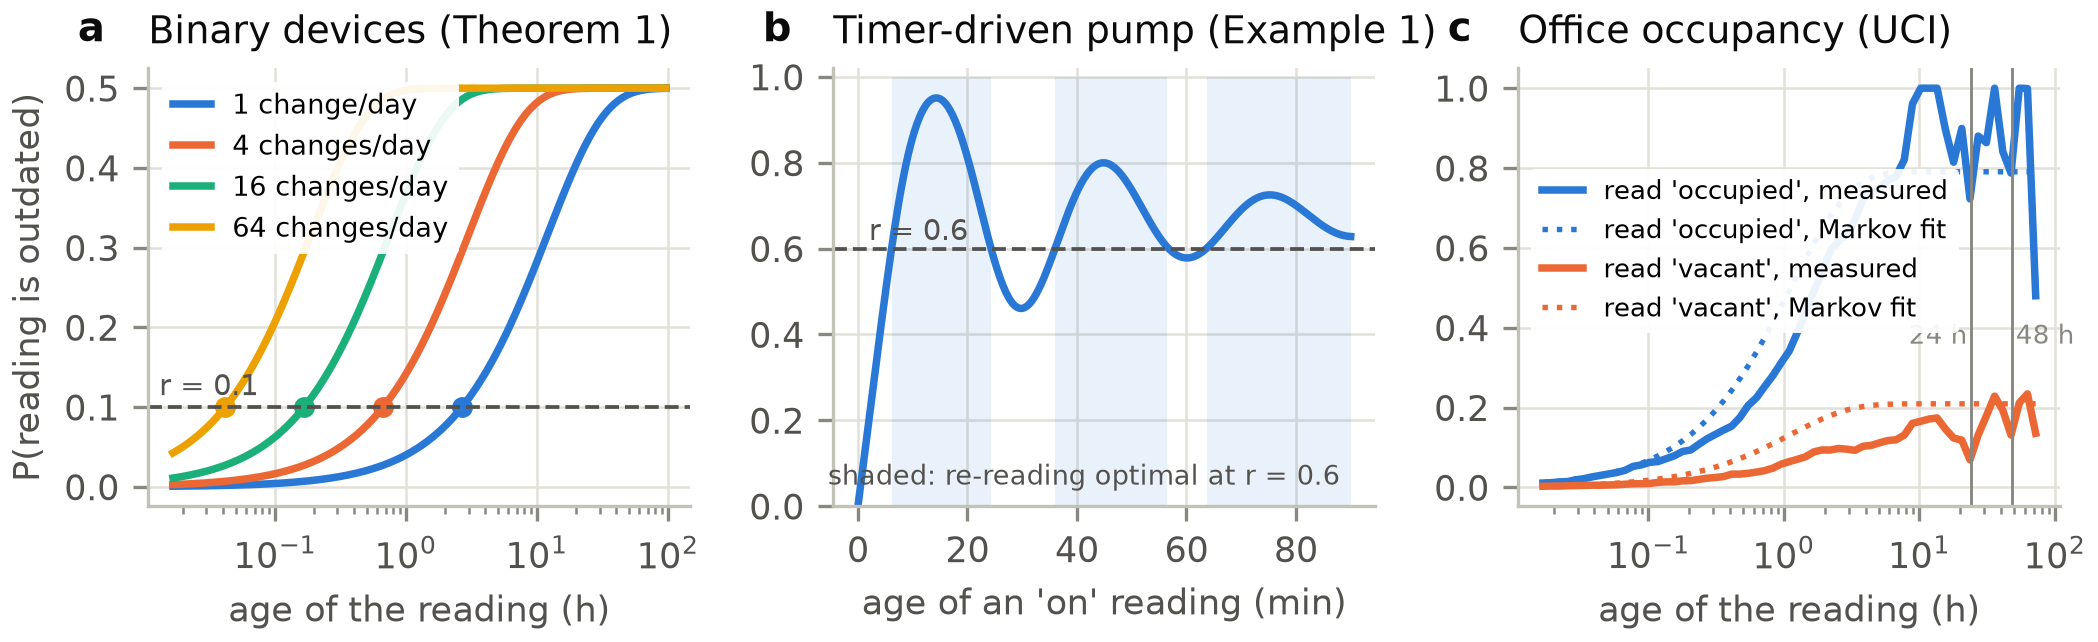
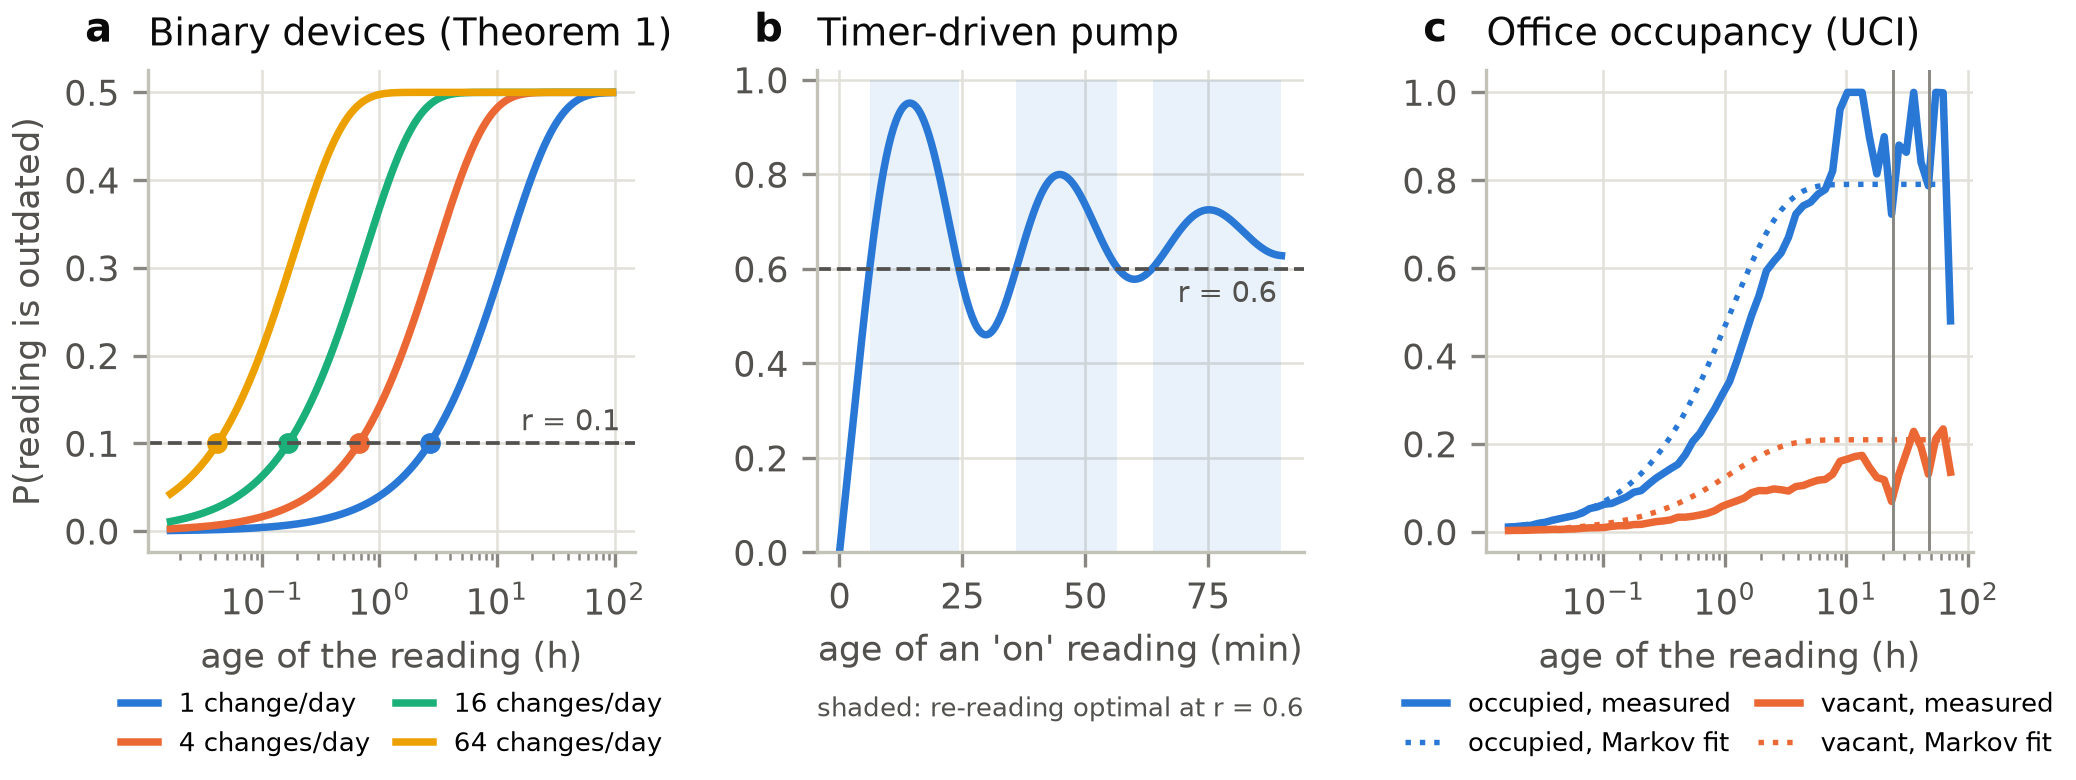
Figures: boxes sized to their text, legends moved off the data, distinct line styles

Changed region(s): [[0.0, 0.0, 1.0, 0.9969], [0.4624, 0.5607, 0.5241, 0.5919], [0.5549, 0.5607, 0.5857, 0.5919]]

diff --git a/shared/schematics.py b/shared/schematics.py
@@ -1,5 +1,9 @@
 # -*- coding: utf-8 -*-
 """Architecture schematics for both papers (matplotlib, 300 dpi).
+
+Boxes are sized from their text: each box is drawn after its title and lines have been measured, so no text can
+leave its box. A final check verifies that every text lies inside its box, that no two boxes overlap and that no
+arrow label overlaps a box; the script stops with an error otherwise.
 python schematics.py <age_figures_dir> <order_figures_dir>
 """
 import os
@@ -14,71 +18,153 @@ setup()
 plt.rcParams["axes.grid"] = False
 LIGHT = {"blue": "#e8f1fc", "orange": "#fdeee6", "aqua": "#e3f6ef", "gray": "#f3f2ee"}
 EDGE_GRAY = "#c3c2b7"
+PAD = 0.018          # inner padding, in axes units
+TITLE_FS, BODY_FS, LABEL_FS = 7.4, 6.5, 6.2
 
 
-def box(ax, x, y, w, h, title, lines, fill, edge, fs=6.6):
-    ax.add_patch(FancyBboxPatch((x, y), w, h, boxstyle="round,pad=0.008,rounding_size=0.015", fc=fill, ec=edge, lw=1.1))
-    ax.text(x + 0.014, y + h - 0.03, title, fontsize=7.6, fontweight="bold", color=INK, va="top")
-    ax.text(x + 0.014, y + h - 0.10, "\n".join(lines), fontsize=fs, color=INK2, va="top", linespacing=1.45)
+class Board:
+    def __init__(self, w_in, h_in):
+        self.fig, self.ax = plt.subplots(figsize=(w_in, h_in))
+        self.fig.subplots_adjust(0, 0, 1, 1)
+        self.ax.set_xlim(0, 1)
+        self.ax.set_ylim(0, 1)
+        self.ax.axis("off")
+        self.boxes, self.labels = [], []
+        self.r = self.fig.canvas.get_renderer()
 
+    def _size(self, t):
+        bb = t.get_window_extent(self.r).transformed(self.ax.transAxes.inverted())
+        return bb.width, bb.height
 
-def arrow(ax, p, q, label=None, off=(0, 0.02), ha="center"):
-    ax.add_patch(FancyArrowPatch(p, q, arrowstyle="-|>", mutation_scale=9, lw=1.0, color=INK2, shrinkA=1, shrinkB=1))
-    if label:
-        ax.text((p[0] + q[0]) / 2 + off[0], (p[1] + q[1]) / 2 + off[1], label, fontsize=6.3, color=INK2, ha=ha)
+    def measure(self, title, lines):
+        """natural (w, h) of a box with this content, in axes units."""
+        tt = self.ax.text(0, 1, title, fontsize=TITLE_FS, fontweight="bold", va="top")
+        bt = self.ax.text(0, 1, chr(10).join(lines), fontsize=BODY_FS, va="top", linespacing=1.4)
+        (tw, th), (bw, bh) = self._size(tt), self._size(bt)
+        tt.remove()
+        bt.remove()
+        return max(tw, bw) + 2 * PAD, th + bh + 0.03 + 2 * PAD
+
+    def box(self, x, top, title, lines, fill, edge, min_w=0.0, min_h=0.0):
+        """box whose top-left corner is (x, top); returns (x, y, w, h)."""
+        tt = self.ax.text(x + PAD, top - PAD, title, fontsize=TITLE_FS, fontweight="bold", color=INK, va="top", ha="left")
+        tw, th = self._size(tt)
+        bt = self.ax.text(x + PAD, top - PAD - th - 0.03, "\n".join(lines), fontsize=BODY_FS, color=INK2, va="top", ha="left",
+                          linespacing=1.4)
+        bw, bh = self._size(bt)
+        w = max(min_w, max(tw, bw) + 2 * PAD)
+        h = max(min_h, th + bh + 0.03 + 2 * PAD)
+        patch = FancyBboxPatch((x, top - h), w, h, boxstyle="round,pad=0,rounding_size=0.012", fc=fill, ec=edge, lw=1.1, zorder=0)
+        self.ax.add_patch(patch)
+        self.boxes.append({"name": title, "rect": (x, top - h, w, h), "texts": [tt, bt]})
+        return (x, top - h, w, h)
+
+    def arrow(self, p, q, label=None, at=None, ha="center", va="center"):
+        self.ax.add_patch(FancyArrowPatch(p, q, arrowstyle="-|>", mutation_scale=9, lw=1.0, color=INK2, shrinkA=0, shrinkB=0))
+        if label:
+            pos = at or ((p[0] + q[0]) / 2, (p[1] + q[1]) / 2)
+            t = self.ax.text(pos[0], pos[1], label, fontsize=LABEL_FS, color=INK2, ha=ha, va=va,
+                             bbox=dict(fc="white", ec="none", pad=0.6))
+            self.labels.append(t)
+
+    def check_and_save(self, path):
+        self.fig.canvas.draw()
+        inv = self.ax.transAxes.inverted()
+        errs = []
+        for b in self.boxes:
+            x, y, w, h = b["rect"]
+            if x < 0 or y < 0 or x + w > 1 or y + h > 1:
+                errs.append("box '%s' leaves the figure: %s" % (b["name"], b["rect"]))
+            for t in b["texts"]:
+                bb = t.get_window_extent(self.r).transformed(inv)
+                if bb.x0 < x or bb.x1 > x + w or bb.y0 < y or bb.y1 > y + h:
+                    errs.append("text overflows box '%s'" % b["name"])
+        for i, a in enumerate(self.boxes):
+            for c in self.boxes[i + 1:]:
+                ax_, ay, aw, ah = a["rect"]
+                cx, cy, cw, ch = c["rect"]
+                if ax_ < cx + cw and cx < ax_ + aw and ay < cy + ch and cy < ay + ah:
+                    errs.append("boxes overlap: '%s' and '%s'" % (a["name"], c["name"]))
+        for t in self.labels:
+            bb = t.get_window_extent(self.r).transformed(inv)
+            for b in self.boxes:
+                x, y, w, h = b["rect"]
+                if bb.x0 < x + w and x < bb.x1 and bb.y0 < y + h and y < bb.y1:
+                    errs.append("arrow label '%s' overlaps box '%s'" % (t.get_text(), b["name"]))
+            if bb.x0 < 0 or bb.x1 > 1 or bb.y0 < 0 or bb.y1 > 1:
+                errs.append("arrow label '%s' leaves the figure" % t.get_text())
+        if errs:
+            raise SystemExit("schematic check failed for %s:\n  " % path + "\n  ".join(errs))
+        from matplotlib.transforms import Bbox
+        x0 = min(b["rect"][0] for b in self.boxes)
+        y0 = min(b["rect"][1] for b in self.boxes)
+        x1 = max(b["rect"][0] + b["rect"][2] for b in self.boxes)
+        y1 = max(b["rect"][1] + b["rect"][3] for b in self.boxes)
+        (px0, py0), (px1, py1) = self.ax.transAxes.transform([(x0, y0), (x1, y1)])
+        d = self.fig.dpi_scale_trans.inverted()
+        (ix0, iy0), (ix1, iy1) = d.transform([(px0, py0), (px1, py1)])
+        self.fig.savefig(path, bbox_inches=Bbox([[ix0 - 0.03, iy0 - 0.03], [ix1 + 0.03, iy1 + 0.03]]))
+        plt.close(self.fig)
 
 
 def age(out):
-    fig, ax = plt.subplots(figsize=(7.2, 3.3))
-    ax.set_xlim(0, 1)
-    ax.set_ylim(0, 1)
-    ax.axis("off")
-    box(ax, 0.005, 0.47, 0.25, 0.50, "Agent context",
-        ["instruction: if the valve is idle,", "start a 20-minute cycle", "", "memory: read_state(valve)", "  = idle, as_of 08:12", "current time: 14:40"],
-        LIGHT["gray"], EDGE_GRAY)
-    box(ax, 0.30, 0.47, 0.23, 0.50, "Language model",
-        ["interprets the instruction", "selects device and command", "", "proposes: start the cycle,", "acting on the remembered", "reading"],
-        LIGHT["blue"], SERIES[0])
-    box(ax, 0.58, 0.47, 0.405, 0.50, "Freshness gate (Section 4)",
-        ["age  Δ = now − as_of", "normalised age  u = q·Δ", "staleness  p = ψ (1 − exp(−u/ψ))   (Theorem 1)", "",
-         "p > r :  read first, then execute", "p ≤ r :  execute now", "deterministic, no extra model call"],
-        LIGHT["aqua"], SERIES[2])
-    box(ax, 0.30, 0.02, 0.34, 0.33, "Device registry and deployment",
-        ["changes per day q and time share π", "of each state, from the device history", "read price r = c / L (battery, airtime)"],
-        LIGHT["orange"], SERIES[1])
-    box(ax, 0.70, 0.02, 0.285, 0.33, "Device", ["read_state, then the command", "or the command directly"], LIGHT["gray"], EDGE_GRAY)
-    arrow(ax, (0.262, 0.72), (0.296, 0.72))
-    arrow(ax, (0.538, 0.62), (0.576, 0.62), "command", off=(0, -0.05))
-    arrow(ax, (0.60, 0.36), (0.66, 0.46), "q, π, r", off=(-0.045, 0.0))
-    arrow(ax, (0.85, 0.46), (0.85, 0.36), "decision", off=(0.012, -0.01), ha="left")
-    fig.savefig(os.path.join(out, "fig_arch.png"))
-    plt.close(fig)
+    B = Board(7.2, 3.1)
+    G = 0.045                                     # horizontal gap between boxes
+    GATE = ["age  Δ = now − as_of", "normalised age  u = q·Δ", "staleness  p = ψ(1 − exp(−u/ψ))", "(Theorem 1)", "",
+               "p > r : read first, then execute", "p ≤ r : execute now", "deterministic, no model call"]
+    H1 = B.measure("Freshness gate (Section 4)", GATE)[1]           # common height of the top row
+    a = B.box(0.004, 0.99, "Agent context",
+              ["instruction: if the valve is idle,", "start a 20-minute cycle", "", "memory: read_state(valve)",
+               "= idle, as_of 08:12", "current time: 14:40"], LIGHT["gray"], EDGE_GRAY, min_h=H1)
+    m = B.box(a[0] + a[2] + G, 0.99, "Language model",
+              ["interprets the instruction", "selects device and command", "", "proposes: start the cycle,",
+               "acting on the remembered", "reading"], LIGHT["blue"], SERIES[0], min_h=H1)
+    G2 = 0.095                                    # wider gap for the "command" label
+    g = B.box(m[0] + m[2] + G2, 0.99, "Freshness gate (Section 4)", GATE,
+              LIGHT["aqua"], SERIES[2], min_h=H1, min_w=0.996 - (m[0] + m[2] + G2))
+    top2 = min(a[1], m[1], g[1]) - 0.14
+    r = B.box(m[0], top2, "Registry and deployment",
+              ["exit rate q of each state,", "from the device history", "read price r = c / L", "(battery, airtime)"],
+              LIGHT["orange"], SERIES[1])
+    d = B.box(g[0] + 0.12, top2, "Device", ["read_state, then the command,", "or the command directly"], LIGHT["gray"], EDGE_GRAY,
+              min_w=0.996 - (g[0] + 0.12), min_h=r[3])
+    ymid = a[1] + a[3] * 0.55
+    B.arrow((a[0] + a[2], ymid), (m[0], ymid))
+    yc = m[1] + m[3] * 0.35
+    B.arrow((m[0] + m[2], yc), (g[0], yc), "command", at=((m[0] + m[2] + g[0]) / 2, yc + 0.075))
+    B.arrow((r[0] + r[2], r[1] + r[3] * 0.6), (g[0] + 0.06, g[1]), "q, r", at=(r[0] + r[2] + 0.035, (r[1] + r[3] + g[1]) / 2 - 0.02))
+    xd = d[0] + d[2] * 0.4
+    B.arrow((xd, g[1]), (xd, d[1] + d[3]), "decision", at=(xd + 0.012, (g[1] + d[1] + d[3]) / 2), ha="left")
+    B.check_and_save(os.path.join(out, "fig_arch.png"))
 
 
 def order(out):
-    fig, ax = plt.subplots(figsize=(7.2, 3.3))
-    ax.set_xlim(0, 1)
-    ax.set_ylim(0, 1)
-    ax.axis("off")
-    box(ax, 0.005, 0.36, 0.30, 0.61, "Incident log (device clocks)",
-        ["31.418 [bp2] pump BP2 stopped", "30.977 [fs2] no flow on FS2", "36.120 [scada] ALARM", "",
-         "clock note: offset SD 1 s", "process note: delay 1 s", "history: pump first in 70%"],
-        LIGHT["gray"], EDGE_GRAY, fs=6.3)
-    box(ax, 0.35, 0.36, 0.24, 0.61, "Language model",
-        ["acts as a reader:", "finds the candidate events", "copies their timestamps", "reads the declared offset", "spread, latency and history", "", "output: JSON fields"],
-        LIGHT["blue"], SERIES[0])
-    box(ax, 0.64, 0.71, 0.345, 0.26, "Certifier (Lemma 1)", ["order only if |D| > 2δ", "otherwise: not established"], LIGHT["aqua"], SERIES[2])
-    box(ax, 0.64, 0.36, 0.345, 0.30, "Bayes attributor (Theorem 2)",
-        ["log-odds = ln(π/(1 − π)) + g·D / σ²", "names the favoured event", "ignores the line order"], LIGHT["aqua"], SERIES[2])
-    box(ax, 0.005, 0.02, 0.585, 0.26, "Clock metadata (Definition 1)",
-        ["offset spread σ² = σs² + σρ²·T²/3 from the oscillator class", "and the time T since the last synchronisation, or a hard bound δ"],
-        LIGHT["orange"], SERIES[1])
-    arrow(ax, (0.312, 0.66), (0.346, 0.66))
-    arrow(ax, (0.596, 0.75), (0.636, 0.80), "D, δ", off=(-0.012, 0.03))
-    arrow(ax, (0.596, 0.50), (0.636, 0.47), "D, σ, g, π", off=(-0.02, -0.075))
-    arrow(ax, (0.596, 0.15), (0.75, 0.352), "σ or δ", off=(0.045, -0.04))
-    fig.savefig(os.path.join(out, "fig_arch.png"))
-    plt.close(fig)
+    B = Board(7.2, 3.3)
+    G = 0.05
+    LOG = ["31.418 [bp2] pump BP2 stopped", "30.977 [fs2] no flow on FS2", "36.120 [scada] ALARM", "",
+           "clock note: offset SD 1 s", "process note: delay 1 s", "history: pump first in 70%"]
+    LM = ["acts as a reader:", "finds the candidate events,", "copies their timestamps,", "reads the declared offset",
+          "spread, latency and history", "", "output: JSON fields"]
+    H1 = max(B.measure("Incident log (device clocks)", LOG)[1], B.measure("Language model", LM)[1])
+    lg = B.box(0.004, 0.99, "Incident log (device clocks)", LOG, LIGHT["gray"], EDGE_GRAY, min_h=H1)
+    m = B.box(lg[0] + lg[2] + G, 0.99, "Language model", LM, LIGHT["blue"], SERIES[0], min_h=H1)
+    xr = m[0] + m[2] + G + 0.02
+    c = B.box(xr, 0.99, "Order certifier (Lemma 1)", ["order only if |D| > 2δ", "otherwise: not established"],
+              LIGHT["aqua"], SERIES[2], min_w=0.996 - xr)
+    b = B.box(xr, c[1] - 0.05, "Bayes attributor (Corollary 1)",
+              ["log-odds = ln(π/(1 − π)) + g·D / σ²", "names the favoured event", "ignores the line order"],
+              LIGHT["aqua"], SERIES[2], min_w=0.996 - xr, min_h=(c[1] - 0.05) - lg[1])
+    k = B.box(0.004, min(lg[1], m[1], b[1]) - 0.14, "Clock metadata (Definition 1)",
+              ["offset spread from the oscillator class and the time", "since the last synchronisation, or a hard bound δ"],
+              LIGHT["orange"], SERIES[1], min_w=m[0] + m[2] - 0.004)
+    ym = lg[1] + lg[3] * 0.55
+    B.arrow((lg[0] + lg[2], ym), (m[0], ym))
+    xm = m[0] + m[2]
+    B.arrow((xm, c[1] + c[3] * 0.4), (xr, c[1] + c[3] * 0.4), "D, δ", at=((xm + xr) / 2, c[1] + c[3] * 0.4 + 0.06))
+    B.arrow((xm, b[1] + b[3] * 0.5), (xr, b[1] + b[3] * 0.5), "D, σ, g, π", at=((xm + xr) / 2, b[1] + b[3] * 0.5 - 0.06))
+    p0, p1 = (k[0] + k[2], k[1] + k[3] * 0.5), (xr + 0.08, b[1])
+    B.arrow(p0, p1, "σ or δ", at=((p0[0] + p1[0]) / 2 + 0.02, (p0[1] + p1[1]) / 2 - 0.02), ha="left")
+    B.check_and_save(os.path.join(out, "fig_arch.png"))
 
 
 age(sys.argv[1])

diff --git a/age/code/figs_theory.py b/age/code/figs_theory.py
@@ -21,7 +21,7 @@ real = json.load(open(REAL))
 ages_real = np.array(real["ages_s"])
 
 # ------------------------------------------------------------ Figure: staleness curves
-fig, axs = plt.subplots(1, 3, figsize=(7.2, 2.35))
+fig, axs = plt.subplots(1, 3, figsize=(7.2, 3.0))
 ax = axs[0]
 a = np.exp(np.linspace(math.log(60), math.log(4 * 86400), 300))
 for k, q in enumerate([1, 4, 16, 64]):
@@ -30,12 +30,12 @@ for k, q in enumerate([1, 4, 16, 64]):
     ustar = -0.5 * math.log(1 - 2 * 0.1)
     ax.plot(ustar / (q / 86400) / 3600, 0.1, marker="o", color=SERIES[k], ms=4)
 ax.axhline(0.1, color=INK2, lw=0.9, ls="--")
-ax.text(0.02, 0.115, "r = 0.1", color=INK2, fontsize=7, transform=ax.get_yaxis_transform())
+ax.text(0.97, 0.115, "r = 0.1", color=INK2, fontsize=7, ha="right", transform=ax.get_yaxis_transform())
 ax.set_xscale("log")
 ax.set_xlabel("age of the reading (h)")
 ax.set_ylabel("P(reading is outdated)")
 ax.set_title("Binary devices (Theorem 1)", loc="left")
-ax.legend(loc="upper left", fontsize=6.5, handlelength=1.4, frameon=True, facecolor="white", edgecolor="none", framealpha=0.92)
+ax.legend(loc="upper center", bbox_to_anchor=(0.5, -0.24), ncol=2, fontsize=6.3, handlelength=1.4, columnspacing=1.0)
 panel_label(ax, "a")
 
 ax = axs[1]
@@ -44,11 +44,11 @@ p = np.array(th["dutycycle"]["p"])
 ax.plot(t, p, color=SERIES[0])
 ax.axhline(0.6, color=INK2, lw=0.9, ls="--")
 ax.fill_between(t, 0, 1, where=p > 0.6, color=SERIES[0], alpha=0.10, lw=0)
-ax.text(88, 0.05, "shaded: re-reading optimal at r = 0.6", color=INK2, fontsize=6.4, ha="right")
+ax.text(0.5, -0.34, "shaded: re-reading optimal at r = 0.6", color=INK2, fontsize=6.3, ha="center", transform=ax.transAxes)
 ax.set_xlabel("age of an 'on' reading (min)")
 ax.set_ylim(0, 1.02)
-ax.text(2, 0.62, "r = 0.6", color=INK2, fontsize=7, ha="left")
-ax.set_title("Timer-driven pump (Example 1)", loc="left")
+ax.text(89, 0.53, "r = 0.6", color=INK2, fontsize=7, ha="right")
+ax.set_title("Timer-driven pump", loc="left")
 panel_label(ax, "b")
 
 ax = axs[2]
@@ -58,16 +58,14 @@ for k, (x, lab) in enumerate((("1", "read 'occupied'"), ("0", "read 'vacant'")))
     c = d["curves"].get(x)
     if not c:
         continue
-    ax.plot(ages_real / 3600, c["emp"], color=SERIES[k], label=lab + ", measured")
-    ax.plot(ages_real / 3600, c["ctmc"], color=SERIES[k], ls=":", lw=1.3, label=lab + ", Markov fit")
+    ax.plot(ages_real / 3600, c["emp"], color=SERIES[k], label=lab.replace("read ", "").strip("'") + ", measured")
+    ax.plot(ages_real / 3600, c["ctmc"], color=SERIES[k], ls=":", lw=1.3, label=lab.replace("read ", "").strip("'") + ", Markov fit")
 for hh in (24, 48):
     ax.axvline(hh, color=MUTED, lw=0.7, ls="-")
-    ax.text(hh * (0.93 if hh == 24 else 1.07), 0.36, "%d h" % hh, color=MUTED, fontsize=6.2,
-            ha="right" if hh == 24 else "left")
 ax.set_xscale("log")
 ax.set_xlabel("age of the reading (h)")
 ax.set_title("Office occupancy (UCI)", loc="left")
-ax.legend(loc="upper left", bbox_to_anchor=(0.0, 0.80), fontsize=6.2, handlelength=1.6, frameon=True, facecolor="white", edgecolor="none", framealpha=0.92)
+ax.legend(loc="upper center", bbox_to_anchor=(0.5, -0.24), ncol=2, fontsize=6.3, handlelength=1.6, columnspacing=1.0)
 panel_label(ax, "c")
 fig.tight_layout(w_pad=1.2)
 fig.savefig(os.path.join(FIG, "fig_staleness.png"))

diff --git a/order/code/figs_theory.py b/order/code/figs_theory.py
@@ -1,4 +1,4 @@
-# -*- coding: utf-8 -*-
+# -*- coding: utf-8 -*-
 """ORDER figures that do not depend on the model audit: the error floor and the fan-out effect (theory),
 and the timestamp-only error on measured latencies as a function of the synchronisation interval.
 python figs_theory.py <results_dir> <realdata_order.json> <figures_dir>
@@ -31,7 +31,7 @@ for k, pi in enumerate((0.5, 0.7, 0.9)):
         exact.append(pi * stats.norm.cdf((dstar - g) / sd) + (1 - pi) * (1 - stats.norm.cdf((dstar + g) / sd)))
     ax.plot(kap, exact, color=SERIES[k], label="Bayes error, prior %.1f" % pi)
     ax.plot(kap, 2 * (1 - pi) * stats.norm.cdf(-kap / math.sqrt(2)), color=SERIES[k], ls="--", lw=1.2)
-ax.text(1.45, 0.19, "dashed: closed-form floor of\nCorollary 1, attained at a\nuniform prior (prior 0.5)", color=INK2, fontsize=6.4)
+ax.text(1.75, 0.30, "dashed: closed-form floor\n(Corollary 1)", color=INK2, fontsize=6.4)
 ax.set_xlabel("κ = RMS latency / clock-offset SD")
 ax.set_ylabel("P(wrong first event)")
 ax.set_title("Error floor (Theorem 2, Corollary 1)", loc="left")
@@ -60,26 +60,25 @@ fig.savefig(os.path.join(FIG, "fig_floor.png"))
 
 # ------------------------------------------------------------ Figure: measured latencies vs synchronisation interval
 summ = json.load(open(os.path.join(RES, "realdata_order_summary.json")))
-fig, ax = plt.subplots(figsize=(4.6, 2.8))
+fig, ax = plt.subplots(figsize=(5.4, 2.9))
 names = {"homes (CASAS): door -> motion": "homes (CASAS)", "industrial testbed (HAI): valve demand -> position": "industrial (HAI)"}
 for key, curve in summ["curves"].items():
     src, clock, sync = [x.strip() for x in key.split("|")]
     if not sync.startswith("NTP"):
         continue
     k = list(names).index(src)
-    ls = "-" if clock.startswith("XO") else ":"
+    ls = "-" if clock.startswith("XO") else ("--" if clock.startswith("TCXO") else ":")
+    lab_clock = "XO ±20 ppm" if clock.startswith("XO") else ("TCXO ±2 ppm" if clock.startswith("TCXO") else "disciplined ±0.5 ppm")
     ax.plot([c[0] / 86400 for c in curve], [c[1] for c in curve], color=SERIES[k], ls=ls,
-            label="%s, %s" % (names[src], clock.replace("+-", "±")))
+            label="%s, %s" % (names[src], lab_clock))
 for d, lab in ((1, "daily"), (7, "weekly"), (30, "monthly")):
     ax.axvline(d, color=MUTED, lw=0.7)
     ax.text(d * 1.06, 0.505, lab, color=MUTED, fontsize=6.3)
 ax.set_xscale("log")
 ax.set_ylim(0, 0.55)
-ax.set_xlabel("time between clock synchronisations (days), NTP residual 10 ms")
-ax.set_ylabel("Bayes error from timestamps alone")
-ax.text(0.0075, 0.06, "exact under Definition 1, prior 1/2", color=INK2, fontsize=6.2)
-ax.legend(loc="upper left", bbox_to_anchor=(0, 0.93), fontsize=6.0, frameon=True, facecolor="white",
-          edgecolor="none", framealpha=0.92)
+ax.set_xlabel("time between clock synchronisations (days)")
+ax.set_ylabel("error from timestamps alone")
+ax.legend(loc="center left", bbox_to_anchor=(1.02, 0.5), fontsize=6.2, frameon=False)
 fig.tight_layout()
 fig.savefig(os.path.join(FIG, "fig_sync.png"))
 print("saved")
